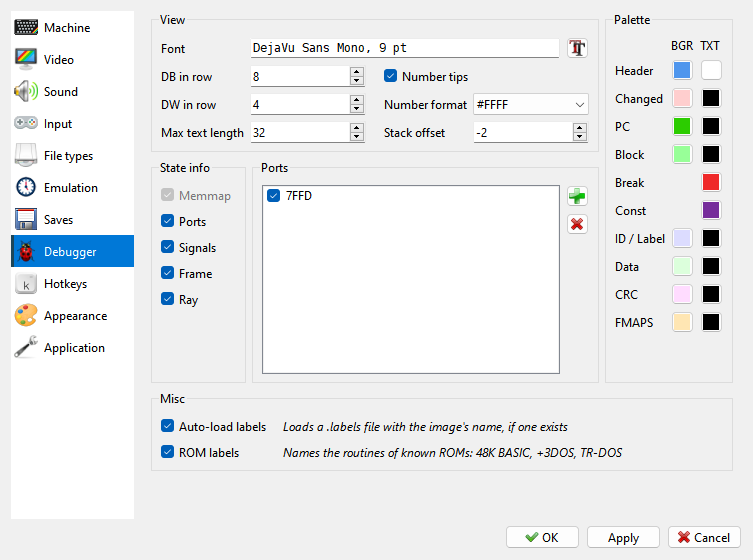
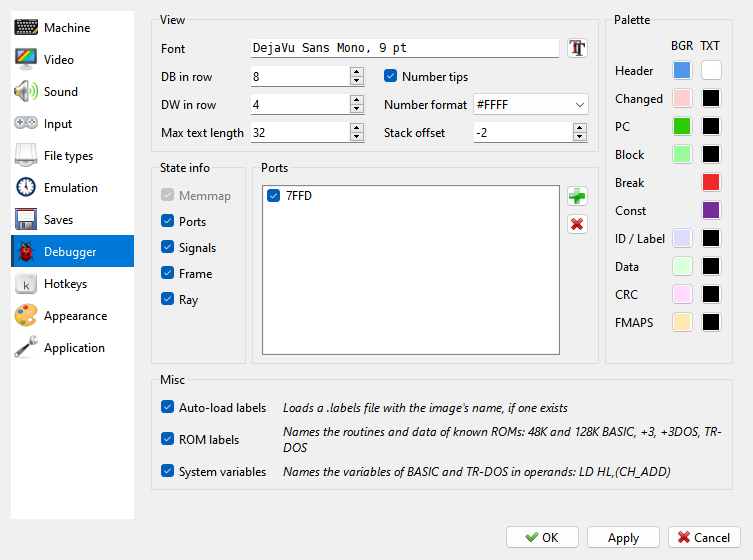
manual: ROM labels of the 128K and +2A/+3, names with their system's prefix, ROM data as data, system variables, dc "..."; Disasm to file writes full names; the Labels List and the Debugger page of Options again

Changed region(s): [[0.2138, 0.6679, 0.9469, 0.85], [0.336, 0.6375, 0.7331, 0.6679]]

diff --git a/docs/manual/debugger-code.md b/docs/manual/debugger-code.md
@@ -242,6 +242,7 @@ You can also type data in the command column:
 |---|---|
 | `db #3F` | one byte, shown as data |
 | `db "SCORE"` | the text, shown as text |
+| `dc "SCORE"` | the text with bit 7 set in its last character, shown as text |
 | `dw #4000` | a word, shown as a word |
 | `dw table` | the label's address, shown as an address |
 
@@ -346,10 +347,36 @@ when there is none.
 ```
 
 Known ROMs come with labels of their own, with no file loaded: `LD_BYTES` at 0556 of the
-48K BASIC, `DOS_OPEN` in the +3DOS, `TRDOS_FUNCTION` at 3D13 of TR-DOS. The 48K BASIC
-names are also in the 48 BASIC of the 128K, +2, +3 and the clones; a routine a clone
-changed has no name there. A ROM is known by its contents, so a ROM file of yours with the
-same bytes has them too.
+48K BASIC, the routines of the 128K editor (ROM 0) and of the four +2A/+3 ROMs, `DOS_OPEN`
+in the +3DOS, `TRDOS_FUNCTION` at 3D13 of TR-DOS. The names are also in the copies of these
+ROMs in the +2 and the clones (the Pentagon, Scorpion, Profi, ATM, ZX Evo); a routine a
+clone changed has no name there. A ROM is known by its contents, so a ROM file of yours with
+the same bytes has them too.
+
+Each name belongs to the system it is part of: `BASIC48` (the 48 BASIC, in every machine
+that has it), `BASIC128` (the 128K editor), `P3ROM0` and `P3ROM1` (the +2A/+3 editor),
+`P3DOS`, `TRDOS`. Its full name is `BASIC48.LD_BYTES`; `LD_BYTES` alone does too, unless a
+label of yours or another system in the machine has that name. On a +3, `START` is in three
+of its ROMs, so typed alone it is an error that names them: `P3ROM0.START`,
+`P3ROM1.START`, `BASIC48.START`. The listing shows the short name, and the full one, the
+system's part paler, where the short one would mean something else; a tip over it shows the
+full name.
+
+The ROM lists also say which parts of the ROM are data, and those are shown as data where
+you have marked nothing yourself: the 48K's character set at 3D00 as `DB` rows, the keyword
+and message tables as `DC "..."` (text whose last character has bit 7 set), the report code
+after an error call as `DB`, so the instructions after it line up. A mark of yours wins, and
+the ROM's marks are not saved in a memory map.
+
+```{index} system variables, CH_ADD, ERR_SP
+```
+
+**System variables** are named in instructions too: `LD HL,(CH_ADD)`, not `LD HL,(5C5D)`.
+They are the names of the manuals for the 48 BASIC (5C00-5CB5), the 128K and +2 (5B00-5BFF),
+the +2A/+3 (its own 5B00-5BFF), and names given to the TR-DOS variables (from 5CC2:
+`TRDOS.FILE_NAME`, `TRDOS.ERROR_CODE`...), each where that system's ROM is in the machine. A
+variable is never a row of its own, as memory there may be used for other things. They can
+be typed as other names: `BASIC48.ERR_SP`, or `ERR_SP`.
 
 They work as other labels do: in the listing, typed as an address, in breakpoints and
 conditions. A ROM that is not paged in still has its place, for a label of yours in it
@@ -362,8 +389,9 @@ Your labels come first. A label of yours of the same name is the one an address 
 instruction gets, and one at the same address is shown instead. A ROM label's name typed in
 the address column makes a label of yours, as a new name does; `@START` goes to the ROM's
 `START`. A ROM label cannot be removed, and **Save labels** does not save it. **ROM labels**
-on the **Debugger** page of **Options** switches them off. Where they come from, and their
-licenses, is in `config/labels/README.md` beside the program.
+on the **Debugger** page of **Options** switches the names and the data marks off, **System
+variables** the variables. Where they come from, and their licenses, is in
+`config/labels/README.md` beside the program.
 
 ```{index} Auto-load labels, label; loading automatically
 ```
@@ -435,7 +463,7 @@ the right-click menu:
 |---|---|
 | **Opcode** | instructions |
 | **Byte** | `DB #3E,#05,...` |
-| **ASCII** | `DB "TEXT"`; bytes that are not printable stay `DB #nn` |
+| **ASCII** | `DB "TEXT"`; bytes that are not printable stay `DB #nn`; a text that ends in a character with bit 7 set, as the ROMs keep theirs, is `DC "TEXT"` |
 | **Word** | `DW #4000,...` |
 | **Address** | `DW` with the label of the address, one word a row |
 
@@ -514,9 +542,9 @@ separator** are kept between sessions.
 **Disasm to file** in the {icon}`floppy` floppy disk menu writes the listing to a text file
 you name: the selected block, or all 64K with nothing selected. The file starts with an
 `ORG` line; labels are written as `name:`, comments as they are, instructions after a tab.
-A [ROM label](#rom-labels) the instructions use gets an `EQU` line before the `ORG`, as
-`LD_BYTES EQU 0x0556`; if a label of yours in the block has its name, the instructions get
-its address instead. An assembler can read the file back.
+A [ROM label](#rom-labels) or a system variable the instructions use is written by its full
+name and gets an `EQU` line before the `ORG`, as `BASIC48.LD_BYTES EQU 0x0556`; if a label
+of yours in the block has its name, the instructions get its address instead. An assembler can read the file back.
 
 Ctrl+C copies the same text for the block, without the first line.
 

diff --git a/docs/manual/options-debugger.md b/docs/manual/options-debugger.md
@@ -56,4 +56,6 @@ style's own.
 
 **Misc** - **Auto-load labels**: opening an image also loads a `.labels` file of the same
 name, if there is one. See [Disasm panel](debugger-code.md). **ROM labels**: known ROMs
-name their routines in the listing. See [ROM labels](debugger-code.md#rom-labels).
+name their routines in the listing and show their data as data. **System variables**: the
+variables of BASIC and TR-DOS are named in instructions, `LD HL,(CH_ADD)`. See
+[ROM labels](debugger-code.md#rom-labels).
